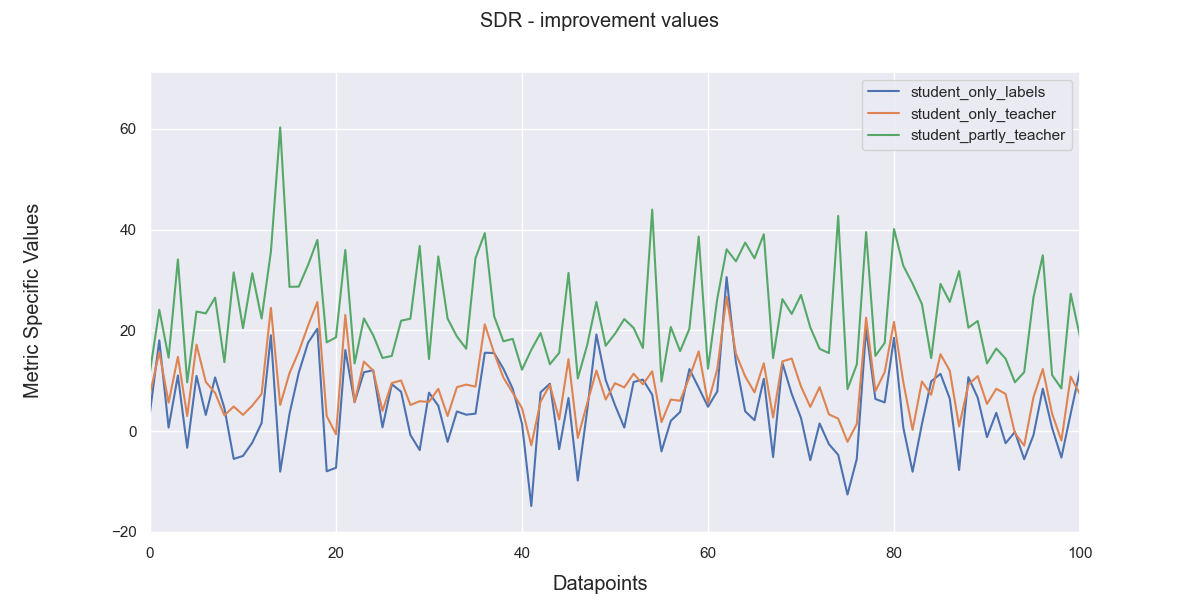
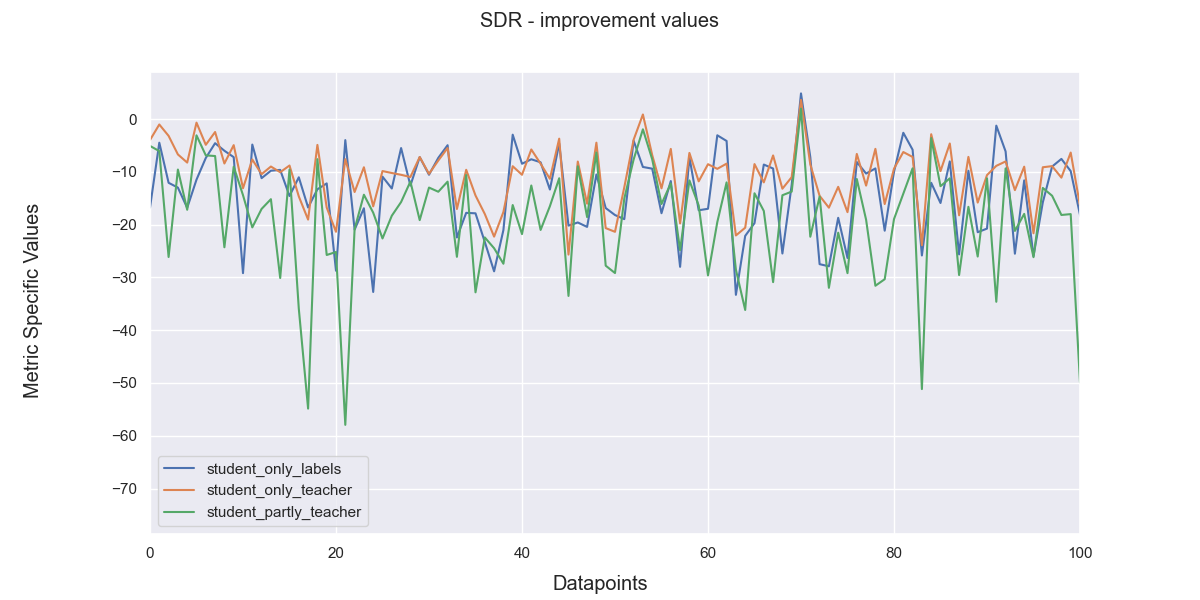
new metrics

diff --git a/accuracy.py b/accuracy.py
@@ -1,4 +1,4 @@
-from load_models import get_model_predictions_and_data
+# from load_models import get_model_predictions_and_data
 
 import torch
 from torchmetrics.audio import SignalNoiseRatio, SignalDistortionRatio, ScaleInvariantSignalDistortionRatio
@@ -116,7 +116,7 @@ def get_mean_conf(data_path, printer=True):
 
     for model_idx in range(num_models):
         for metric_idx in range(num_metrics):
-            data = np.asarray(baseline_metrics[:, metric_idx] - prediction_metrics[:, metric_idx, model_idx])
+            data = np.asarray(prediction_metrics[:, metric_idx, model_idx] - baseline_metrics[:, metric_idx])
             mean = np.mean(data)
             margin = t.ppf((1 + 0.95) / 2, n-1) * np.std(data, ddof=1) / np.sqrt(n)
             
@@ -130,7 +130,7 @@ def get_mean_conf(data_path, printer=True):
     return means, conf_intervals
 
 
-def plot_conf(data_path):
+def plot_conf(data_path, save_path):
     import numpy as np
 
     means, conf_intervals = get_mean_conf(data_path, printer=False)
@@ -148,18 +148,19 @@ def plot_conf(data_path):
     fig, ax = plt.subplots(figsize=(10, 6))
 
     for model_idx in range(num_models):
-        ax.errorbar(x, means[model_idx], yerr=conf_intervals[model_idx], label=f"Model {model_idx + 1}", capsize=5, fmt='o')
+        ax.errorbar(x, means[model_idx], yerr=conf_intervals[model_idx], label=model_names[model_idx], capsize=5, fmt='o')
 
     # Customize plot
     ax.set_title("Confidence Intervals for Metrics by Model")
     ax.set_xlabel("Metric Index")
     ax.set_ylabel("Mean Difference ± CI")
     ax.legend(title="Models")
-    plt.xticks(x, [f"Metric {i+1}" for i in x])  # Optional: label metrics
+    plt.xticks(x, [metric_names[i] for i in x])  # Optional: label metrics
     plt.grid(True, linestyle='--', alpha=0.7)
 
     plt.tight_layout()
     plt.show()
+    if save_path: plt.savefig(save_path + r"\improvement_confidence")
 
 
 if __name__ == "__main__":
@@ -171,9 +172,11 @@ if __name__ == "__main__":
     #     deterministic = False
     # )
     
-    save_path = r"/zhome/f8/2/187151/DL-CausalSpeechProject/Plots/SNR_SDR"
+    # save_path = r"/zhome/f8/2/187151/DL-CausalSpeechProject/Plots/SNR_SDR"
+    save_path = r"C:\Users\alexa\Documents\GitHub\DL-CausalSpeechProject\Plots\SNR_SDR"
     # save_path = save_path + f"/metrics{datapoints}.pt"
     # compute_metrics(results, save_path=save_path)
     
-    metrics_path = save_path + "/metrics632.pt"
-    plot_metrics(metrics_path, save_path)
+    metrics_path = save_path + "\metrics632.pt"
+    # plot_metrics(metrics_path, save_path)
+    plot_conf(metrics_path, save_path)
